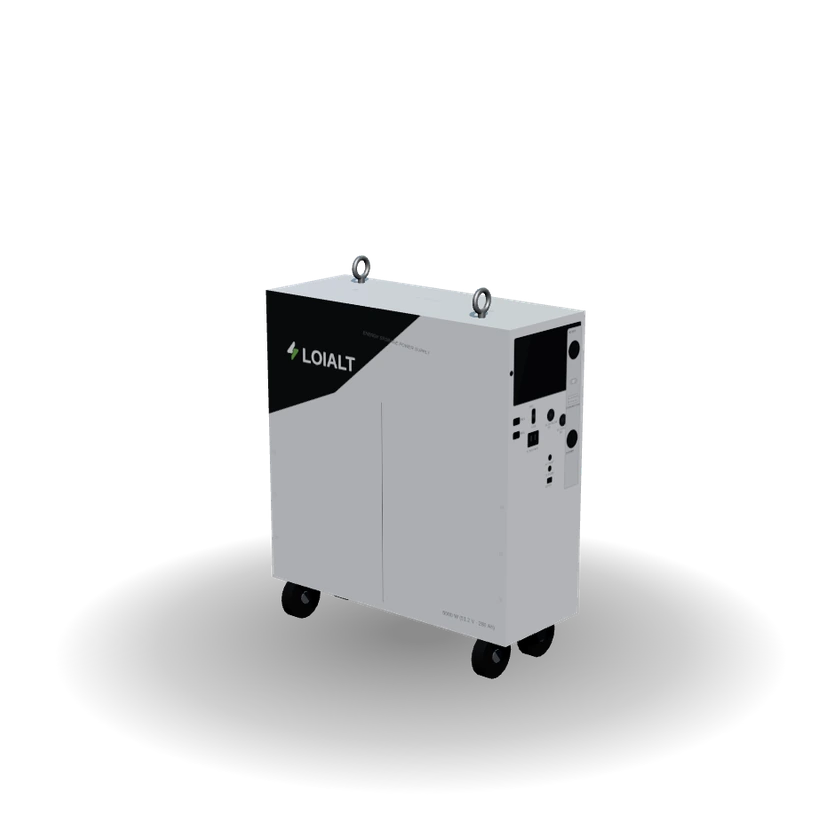
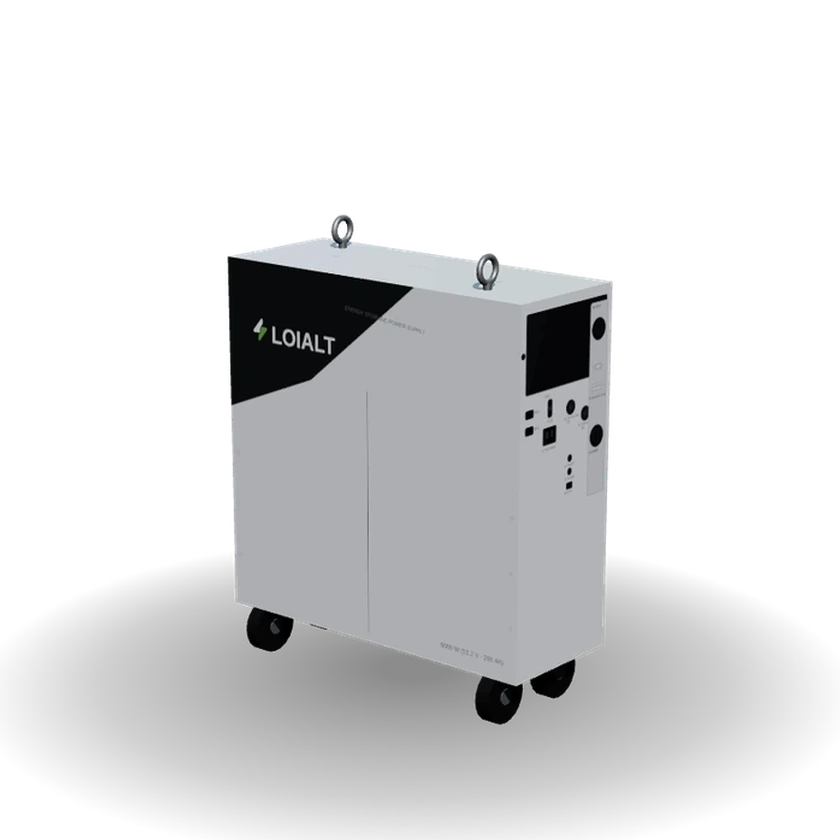
Catálogo de diez productos, tamaños iguales y contenedores nuevos
Productos
- Vuelven el Turbocharger 320 y los EPLVS (Serie C, Serie A, G2), que el cliente
  había retirado. Quedan diez, de mayor a menor y agrupados por familia.
- Los diez van ahora a la misma masa visual (28.8%). Revierte a propósito la
  escala real entre portátiles: el tope de encuadre se mide sobre el producto,
  no sobre su sombra, que en los portátiles es el doble de ancha.
- Corregida una cifra mal publicada: el G2 es 60 kW · 184 kWh, no 30 · 115. El
  «30» era el AC Input del producto de al lado en el folleto, que lleva dos
  columnas de especificaciones pegadas.

Financiamiento
- Contenedores nuevos, dibujados por el cliente en Claude Design.
- El resplandor verde se realza con una CURVA, no con ganancia plana: la plana
  inflaba la cola difusa y lo convertía en una piscina en vez de un filo de luz.
- El zócalo pasa de navy a azul acero #4A6CA3. Contra el fondo de la losa de
  noche el navy medía 1.20:1 y era invisible; ahora mide 3.25:1, conservando
  4.93:1 contra el blanco del contenedor.

Las imágenes se cargan con ?v= porque se sustituyeron conservando el nombre: sin
eso, un visitante que ya hubiera entrado seguiría viendo las anteriores.

Changed region(s): [[0.031, 0.7119, 0.9595, 0.9905], [0.2476, 0.2476, 0.7429, 0.7738], [0.4333, 0.5881, 0.4643, 0.65]]

diff --git a/index.html b/index.html
@@ -3107,7 +3107,19 @@ html.tone-day .lang-sw{ color:var(--energy-deep); border-color:rgba(90,154,66,.4
       <li class="prod-slide" role="group" aria-roledescription="diapositiva">
         <div class="prod-carta">
           <div class="prod-media">
-            <img src="./public/producto-hplus.webp" alt="Gabinete de almacenamiento STAR H-PLUS con marca Loialt Energy" decoding="async" data-i18n-attr-alt="productos.alt1">
+            <img src="./public/producto-eplvs-c.webp?v=2" alt="Contenedor de almacenamiento y carga EPLVS Serie C con marca Loialt Energy" decoding="async" data-i18n-attr-alt="productos.alt7">
+          </div>
+          <div class="prod-info">
+            <h3 data-i18n="productos.h37">Contenedor Serie C</h3>
+            <p data-i18n="productos.p8">Gran capacidad con extinción de incendio integrada.</p>
+            <div class="prod-cifra" data-i18n="productos.div7">2 × 180 kW · 844 kWh</div>
+          </div>
+        </div>
+      </li>
+      <li class="prod-slide" role="group" aria-roledescription="diapositiva">
+        <div class="prod-carta">
+          <div class="prod-media">
+            <img src="./public/producto-hplus.webp?v=2" alt="Gabinete de almacenamiento STAR H-PLUS con marca Loialt Energy" decoding="async" data-i18n-attr-alt="productos.alt1">
           </div>
           <div class="prod-info">
             <h3 data-i18n="productos.h31">STAR H-PLUS</h3>
@@ -3119,7 +3131,7 @@ html.tone-day .lang-sw{ color:var(--energy-deep); border-color:rgba(90,154,66,.4
       <li class="prod-slide" role="group" aria-roledescription="diapositiva">
         <div class="prod-carta">
           <div class="prod-media">
-            <img src="./public/producto-qplus.webp" alt="Gabinete de almacenamiento STAR Q-PLUS con marca Loialt Energy" decoding="async" data-i18n-attr-alt="productos.alt2">
+            <img src="./public/producto-qplus.webp?v=2" alt="Gabinete de almacenamiento STAR Q-PLUS con marca Loialt Energy" decoding="async" data-i18n-attr-alt="productos.alt2">
           </div>
           <div class="prod-info">
             <h3 data-i18n="productos.h32">STAR Q-PLUS</h3>
@@ -3131,7 +3143,7 @@ html.tone-day .lang-sw{ color:var(--energy-deep); border-color:rgba(90,154,66,.4
       <li class="prod-slide" role="group" aria-roledescription="diapositiva">
         <div class="prod-carta">
           <div class="prod-media">
-            <img src="./public/producto-nimbus.webp" alt="Estación de carga Nimbus con marca Loialt Energy: gabinete de equipos, gabinete de baterías, gabinete DC/DC y cargador rápido de 180 kW" decoding="async" data-i18n-attr-alt="productos.alt3">
+            <img src="./public/producto-nimbus.webp?v=2" alt="Estación de carga Nimbus con marca Loialt Energy: gabinete de equipos, gabinete de baterías, gabinete DC/DC y cargador rápido de 180 kW" decoding="async" data-i18n-attr-alt="productos.alt3">
           </div>
           <div class="prod-info">
             <h3 data-i18n="productos.h33">Nimbus</h3>
@@ -3143,7 +3155,43 @@ html.tone-day .lang-sw{ color:var(--energy-deep); border-color:rgba(90,154,66,.4
       <li class="prod-slide" role="group" aria-roledescription="diapositiva">
         <div class="prod-carta">
           <div class="prod-media">
-            <img src="./public/producto-t14k.webp" alt="Estación portátil T14K con marca Loialt Energy" decoding="async" data-i18n-attr-alt="productos.alt4">
+            <img src="./public/producto-turbocharger.webp?v=2" alt="Cargador Microgrid Turbocharger 320 con marca Loialt Energy" decoding="async" data-i18n-attr-alt="productos.alt8">
+          </div>
+          <div class="prod-info">
+            <h3 data-i18n="productos.h38">Turbocharger 320</h3>
+            <p data-i18n="productos.p9">Carga rápida sin ampliar tu acometida: 320 kW tomando 80 de la red.</p>
+            <div class="prod-cifra" data-i18n="productos.div8">320 kW · 189 kWh</div>
+          </div>
+        </div>
+      </li>
+      <li class="prod-slide" role="group" aria-roledescription="diapositiva">
+        <div class="prod-carta">
+          <div class="prod-media">
+            <img src="./public/producto-eplvs-a.webp?v=2" alt="Cargador móvil autónomo EPLVS Serie A con marca Loialt Energy" decoding="async" data-i18n-attr-alt="productos.alt9">
+          </div>
+          <div class="prod-info">
+            <h3 data-i18n="productos.h39">Cargador autónomo</h3>
+            <p data-i18n="productos.p10">Se conduce solo hasta el vehículo y carga sin operador.</p>
+            <div class="prod-cifra" data-i18n="productos.div9">150 kW · 209 kWh</div>
+          </div>
+        </div>
+      </li>
+      <li class="prod-slide" role="group" aria-roledescription="diapositiva">
+        <div class="prod-carta">
+          <div class="prod-media">
+            <img src="./public/producto-eplvs-g2.webp?v=2" alt="Estación compacta EPLVS Serie G2 con marca Loialt Energy" decoding="async" data-i18n-attr-alt="productos.alt10">
+          </div>
+          <div class="prod-info">
+            <h3 data-i18n="productos.h310">Estación compacta G2</h3>
+            <p data-i18n="productos.p11">Almacenamiento y carga en el espacio más reducido.</p>
+            <div class="prod-cifra" data-i18n="productos.div10">60 kW · 184 kWh</div>
+          </div>
+        </div>
+      </li>
+      <li class="prod-slide" role="group" aria-roledescription="diapositiva">
+        <div class="prod-carta">
+          <div class="prod-media">
+            <img src="./public/producto-t14k.webp?v=2" alt="Estación portátil T14K con marca Loialt Energy" decoding="async" data-i18n-attr-alt="productos.alt4">
           </div>
           <div class="prod-info">
             <h3 data-i18n="productos.h34">T14K</h3>
@@ -3155,7 +3203,7 @@ html.tone-day .lang-sw{ color:var(--energy-deep); border-color:rgba(90,154,66,.4
       <li class="prod-slide" role="group" aria-roledescription="diapositiva">
         <div class="prod-carta">
           <div class="prod-media">
-            <img src="./public/producto-t4600.webp" alt="Estación portátil T4600 con marca Loialt Energy" decoding="async" data-i18n-attr-alt="productos.alt5">
+            <img src="./public/producto-t4600.webp?v=2" alt="Estación portátil T4600 con marca Loialt Energy" decoding="async" data-i18n-attr-alt="productos.alt5">
           </div>
           <div class="prod-info">
             <h3 data-i18n="productos.h35">T4600</h3>
@@ -3167,7 +3215,7 @@ html.tone-day .lang-sw{ color:var(--energy-deep); border-color:rgba(90,154,66,.4
       <li class="prod-slide" role="group" aria-roledescription="diapositiva">
         <div class="prod-carta">
           <div class="prod-media">
-            <img src="./public/producto-y1600.webp" alt="Estación portátil Y1600 con marca Loialt Energy" decoding="async" data-i18n-attr-alt="productos.alt6">
+            <img src="./public/producto-y1600.webp?v=2" alt="Estación portátil Y1600 con marca Loialt Energy" decoding="async" data-i18n-attr-alt="productos.alt6">
           </div>
           <div class="prod-info">
             <h3 data-i18n="productos.h36">Y1600</h3>
@@ -3227,7 +3275,7 @@ html.tone-day .lang-sw{ color:var(--energy-deep); border-color:rgba(90,154,66,.4
       <!-- El hueco del render va dimensionado con --fin-h: cuando lleguen las
            piezas 3D se sustituye el .ph por un <img> y nada se mueve. -->
       <div class="fin-card reveal">
-        <div class="fin-media"><img src="/public/fin-venta.webp" alt="Contenedor BESS sobre un zócalo macizo de una sola pieza: el sistema es tuyo desde el primer día." width="540" height="470" loading="lazy" decoding="async" data-i18n-attr-alt="financiamiento.alt1"></div>
+        <div class="fin-media"><img src="/public/fin-venta.webp?v=3" alt="Contenedor BESS sobre un zócalo macizo de una sola pieza: el sistema es tuyo desde el primer día." width="450" height="392" loading="lazy" decoding="async" data-i18n-attr-alt="financiamiento.alt1"></div>
         <div class="fin-body">
           <div class="fin-k" data-i18n="financiamiento.div1">Venta directa</div>
           <h3 data-i18n="financiamiento.h31">Propiedad total</h3>
@@ -3237,7 +3285,7 @@ html.tone-day .lang-sw{ color:var(--energy-deep); border-color:rgba(90,154,66,.4
       </div>
 
       <div class="fin-card reveal">
-        <div class="fin-media"><img src="/public/fin-arrendamiento.webp" alt="Contenedor BESS sobre un zócalo al que le faltan segmentos: la inversión repartida en cuotas, solo pagas una parte por adelantado." width="540" height="470" loading="lazy" decoding="async" data-i18n-attr-alt="financiamiento.alt2"></div>
+        <div class="fin-media"><img src="/public/fin-arrendamiento.webp?v=3" alt="Contenedor BESS sobre un zócalo mitad macizo y mitad luz verde: la inversión repartida, solo pagas una parte por adelantado." width="450" height="392" loading="lazy" decoding="async" data-i18n-attr-alt="financiamiento.alt2"></div>
         <div class="fin-body">
           <div class="fin-k" data-i18n="financiamiento.div2">Arrendamiento</div>
           <h3 data-i18n="financiamiento.h32">Inversión inicial mínima</h3>
@@ -3247,7 +3295,7 @@ html.tone-day .lang-sw{ color:var(--energy-deep); border-color:rgba(90,154,66,.4
       </div>
 
       <div class="fin-card reveal">
-        <div class="fin-media"><img src="/public/fin-baas.webp" alt="Contenedor BESS sin zócalo, sostenido por un arco de luz verde: cero inversión inicial, lo opera Loialt." width="540" height="470" loading="lazy" decoding="async" data-i18n-attr-alt="financiamiento.alt3"></div>
+        <div class="fin-media"><img src="/public/fin-baas.webp?v=3" alt="Contenedor BESS sin zócalo, apoyado solo sobre luz verde: cero inversión inicial, lo opera Loialt." width="450" height="392" loading="lazy" decoding="async" data-i18n-attr-alt="financiamiento.alt3"></div>
         <div class="fin-body">
           <div class="fin-k" data-i18n="financiamiento.div3">BESS as a Service</div>
           <h3 data-i18n="financiamiento.h33">Cero inversión inicial</h3>
@@ -3398,7 +3446,7 @@ html.tone-day .lang-sw{ color:var(--energy-deep); border-color:rgba(90,154,66,.4
 <!-- ================= SCRIPTS ================= -->
 <!-- i18n ANTES de GSAP: el idioma debe estar aplicado cuando SplitText parta
      los títulos y el pager mida las losas, o quedarían sobre el texto viejo. -->
-<script src="./public/i18n.js?v=19"></script>
+<script src="./public/i18n.js?v=21"></script>
 <script src="https://cdn.jsdelivr.net/npm/gsap@3.13.0/dist/gsap.min.js"></script>
 <script src="https://cdn.jsdelivr.net/npm/gsap@3.13.0/dist/ScrollTrigger.min.js"></script>
 <script src="https://cdn.jsdelivr.net/npm/gsap@3.13.0/dist/SplitText.min.js"></script>

diff --git a/public/i18n.js b/public/i18n.js
@@ -224,6 +224,23 @@
        español cabe en dos. Cualquier titular nuevo aquí hay que medirlo. */
     'productos.h21': 'Beyond projects: <em>equipment on its own</em>.',
     'productos.p1': 'We usually start by assessing your operation, and the right system comes out of that. But if you already know what you need, we also sell the equipment on its own — from industrial cabinets to portable units.',
+    // Vueltos al catálogo el 2026-09-24, a petición del cliente (Turbocharger + EPLVS).
+    'productos.alt7': 'EPLVS Series C storage and charging container with Loialt Energy branding',
+    'productos.h37': 'Series C container',
+    'productos.p8': 'High capacity with built-in fire suppression.',
+    'productos.div7': '2 × 180 kW · 844 kWh',
+    'productos.alt8': 'Microgrid Turbocharger 320 charger with Loialt Energy branding',
+    'productos.h38': 'Turbocharger 320',
+    'productos.p9': 'Fast charging without a grid upgrade: 320 kW while drawing only 80 from the grid.',
+    'productos.div8': '320 kW · 189 kWh',
+    'productos.alt9': 'EPLVS Series A autonomous mobile charger with Loialt Energy branding',
+    'productos.h39': 'Autonomous charger',
+    'productos.p10': 'It drives itself to the vehicle and charges with no operator.',
+    'productos.div9': '150 kW · 209 kWh',
+    'productos.alt10': 'EPLVS Series G2 compact station with Loialt Energy branding',
+    'productos.h310': 'G2 compact station',
+    'productos.p11': 'Storage and charging in the smallest possible footprint.',
+    'productos.div10': '60 kW · 184 kWh',
     'productos.alt1': 'STAR H-PLUS storage cabinet with Loialt Energy branding',
     'productos.h31': 'STAR H-PLUS',
     'productos.p2': 'Outdoor storage, liquid-cooled.',
@@ -263,12 +280,12 @@
     'financiamiento.h31': 'You own it outright',
     'financiamiento.p2': 'You invest once and the system is yours from day one. Every peso it saves stays with you for its whole service life.',
     'financiamiento.dato1': '',
-    'financiamiento.alt2': 'BESS container on a plinth split into equal segments: the investment spread over instalments.',
+    'financiamiento.alt2': 'BESS container on a plinth half solid, half green light: the investment spread over instalments.',
     'financiamiento.div2': 'Lease',
     'financiamiento.h32': 'Minimal upfront cost',
     'financiamiento.p3': 'You start with a small outlay and pay monthly instalments that the system’s own savings cover.',
     'financiamiento.dato2': '',
-    'financiamiento.alt3': 'BESS container with no plinth, held by a green arc of light: nothing down, Loialt operates it.',
+    'financiamiento.alt3': 'BESS container with no plinth, resting on green light alone: nothing down, Loialt operates it.',
     /* Nombre de marca: NO se traduce (decisión del 2026-09-08). */
     'financiamiento.div3': 'BESS as a Service',
     'financiamiento.h33': 'Nothing down',
